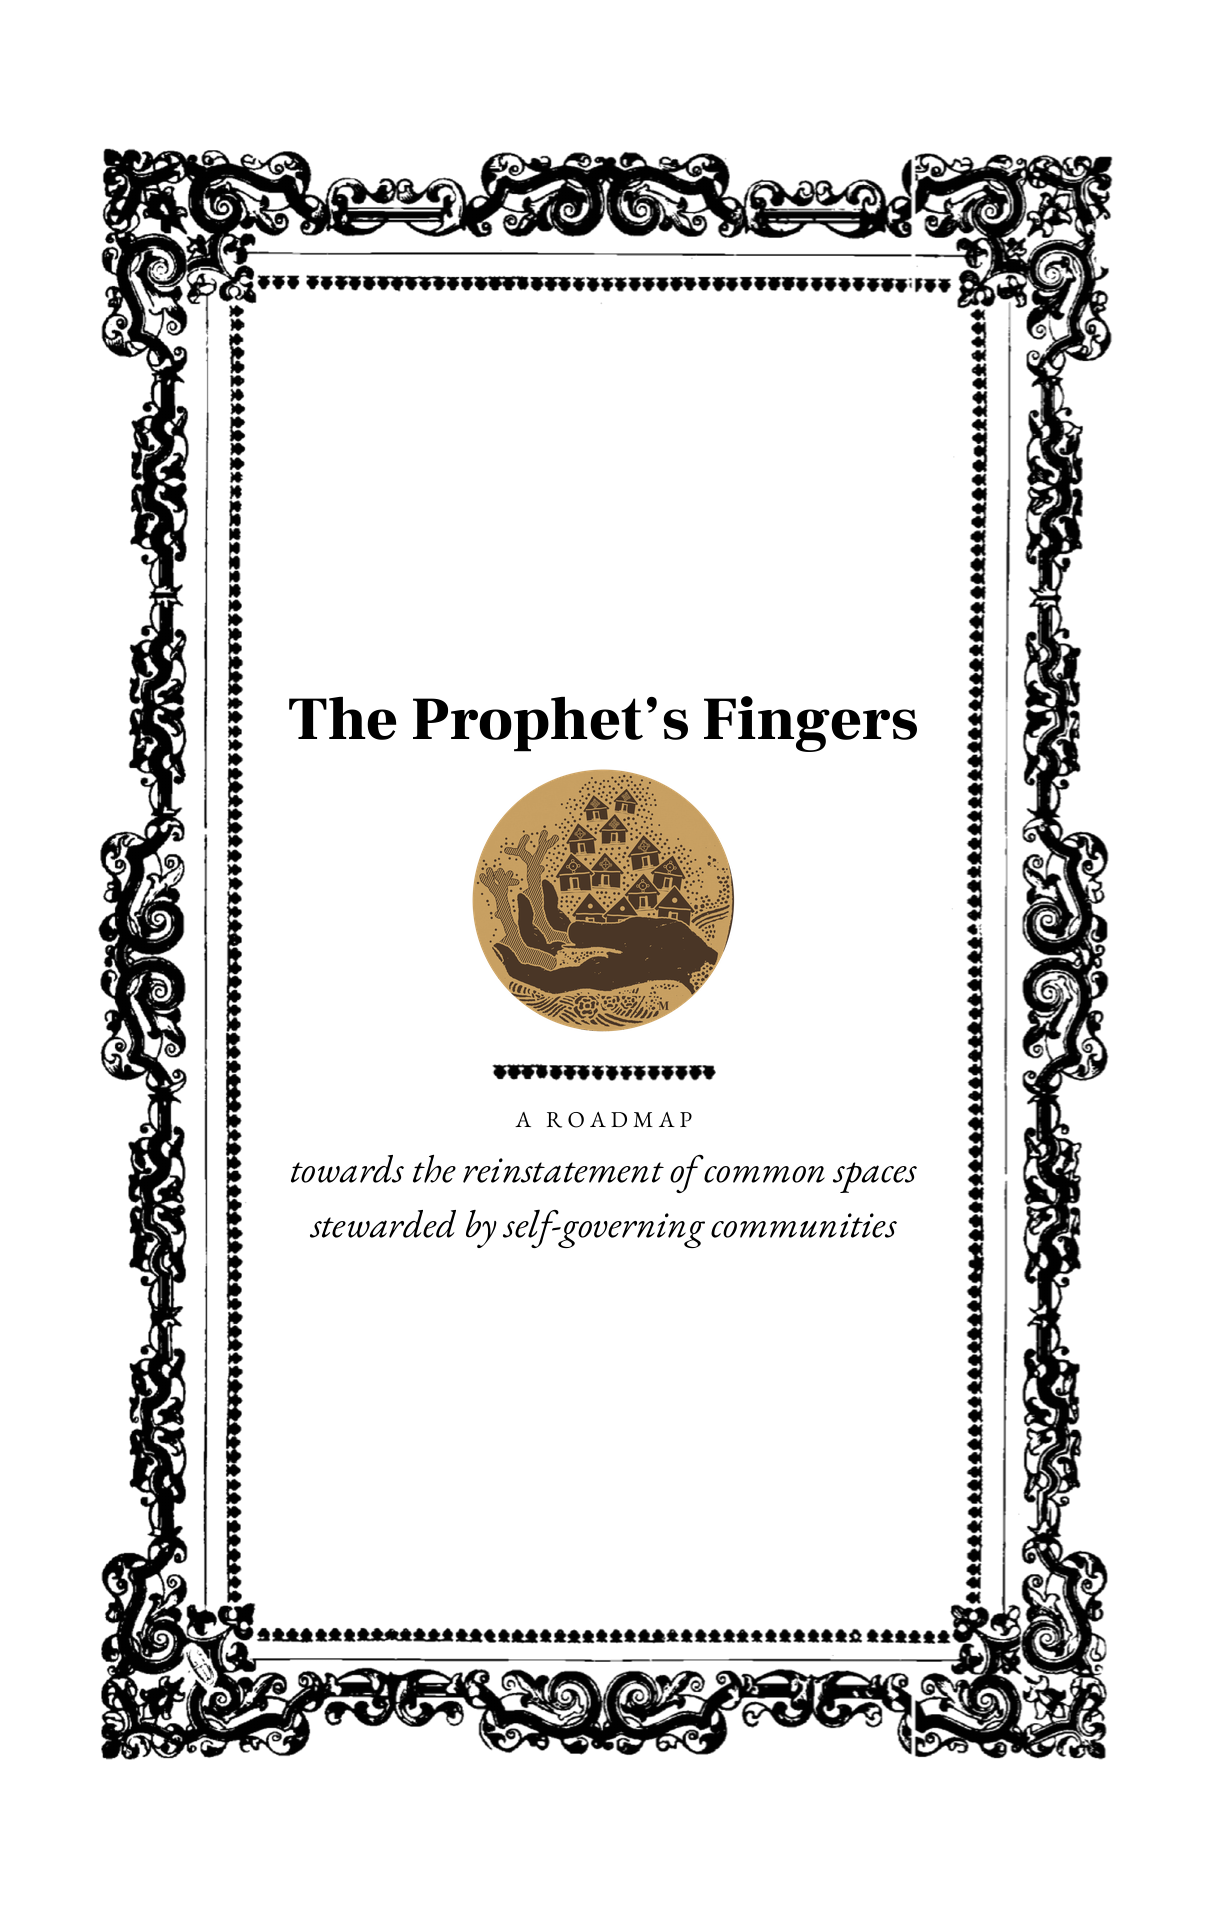
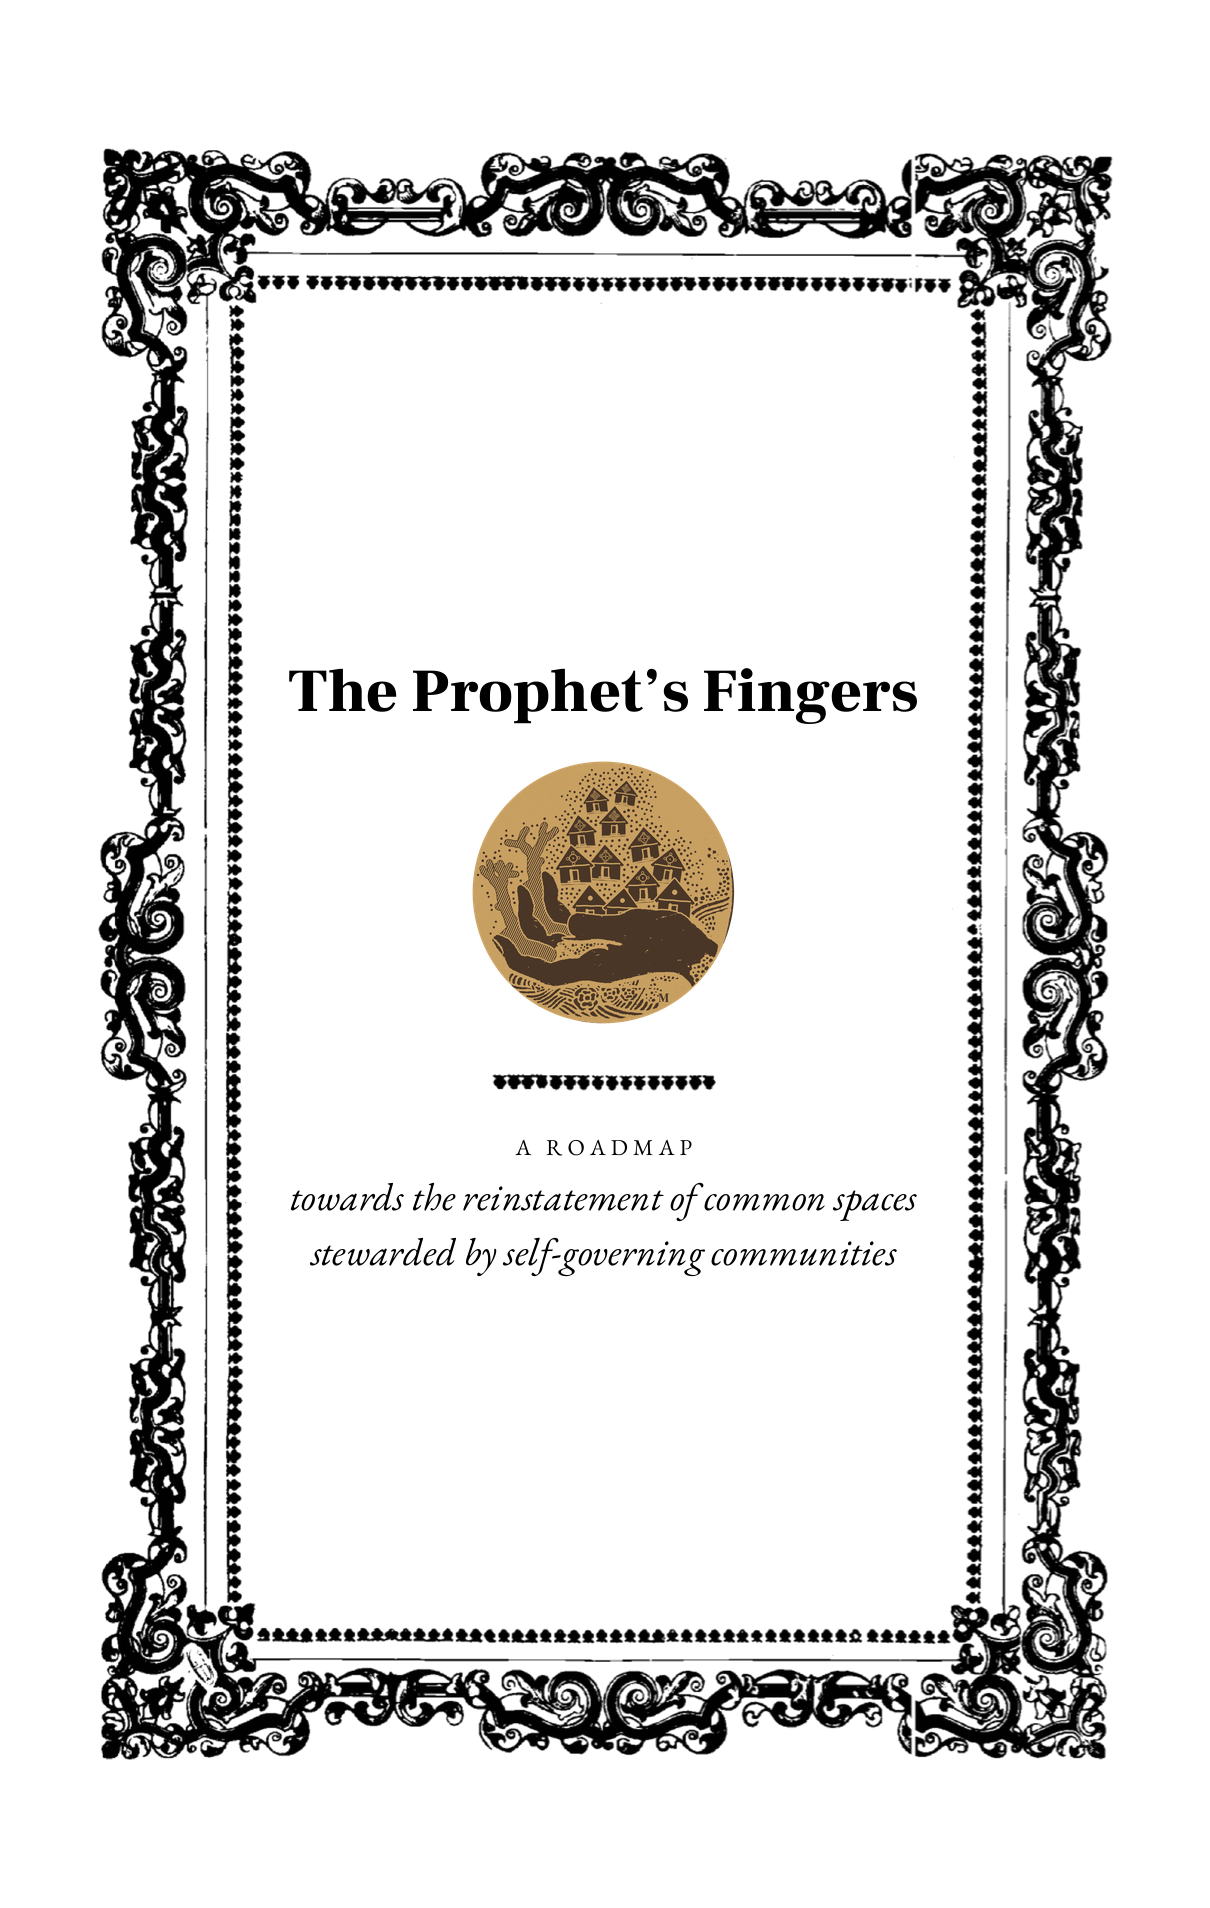
Title page: more space around the medallion and the rule
Claude-Session: https://claude.ai/code/session_01VD2e2WW3sL9SzusgLwjJ3E

Changed region(s): [[0.2446, 0.3401, 0.7645, 0.6803]]

diff --git a/index.html b/index.html
@@ -171,7 +171,7 @@ footer.end { text-align: center; display: flex; flex-direction: column; gap: 1re
 <main class="page">
   <h1 class="sr">The Prophet’s Fingers: a roadmap towards the reinstatement of common spaces stewarded by self-governing communities</h1>
 
-  <section class="sheet"><div class="sheet-in cover"><img src="img/title.png?v=83c76a66" width="1210" height="1908" alt="Title page: The Prophet’s Fingers. A roadmap towards the reinstatement of common spaces stewarded by self-governing communities. In an ornamental border."></div><span></span></section>
+  <section class="sheet"><div class="sheet-in cover"><img src="img/title.png?v=ffcb64be" width="1210" height="1908" alt="Title page: The Prophet’s Fingers. A roadmap towards the reinstatement of common spaces stewarded by self-governing communities. In an ornamental border."></div><span></span></section>
 
   <!-- the two quotations sit side by side where they both fit; on a phone each gets its own page -->
   <section class="sheet only-wide"><div class="sheet-in wide pair" aria-label="Two quotations">
@@ -248,7 +248,7 @@ footer.end { text-align: center; display: flex; flex-direction: column; gap: 1re
 <figure class="scan"><img src="img/alexander_ownership.png?v=64d908a5" width="1770" height="1014" alt="Scanned excerpt from A Pattern Language, p. 201: the deed to one home carries part ownership in its cluster and neighborhood; each level is a political unit."><figcaption>Christopher Alexander, <i>A Pattern Language</i> (1977), p. 201</figcaption></figure></div>
 </details></div>
     <footer class="end getpdf" id="getpdf">
-      <a class="dl" href="The_Prophets_Fingers.pdf?v=9c49749a" download="The Prophets Fingers.pdf">Download the PDF</a>
+      <a class="dl" href="The_Prophets_Fingers.pdf?v=e6d7a1d1" download="The Prophets Fingers.pdf">Download the PDF</a>
       <span class="note" id="dlnote" aria-live="polite"></span>
       <span class="contact" id="contact" data-u="mendelyaf" data-d="gmail.com">mendelyaf [at] gmail [dot] com</span>
       <button type="button" class="copy" id="copymail" hidden>Copy email</button>
